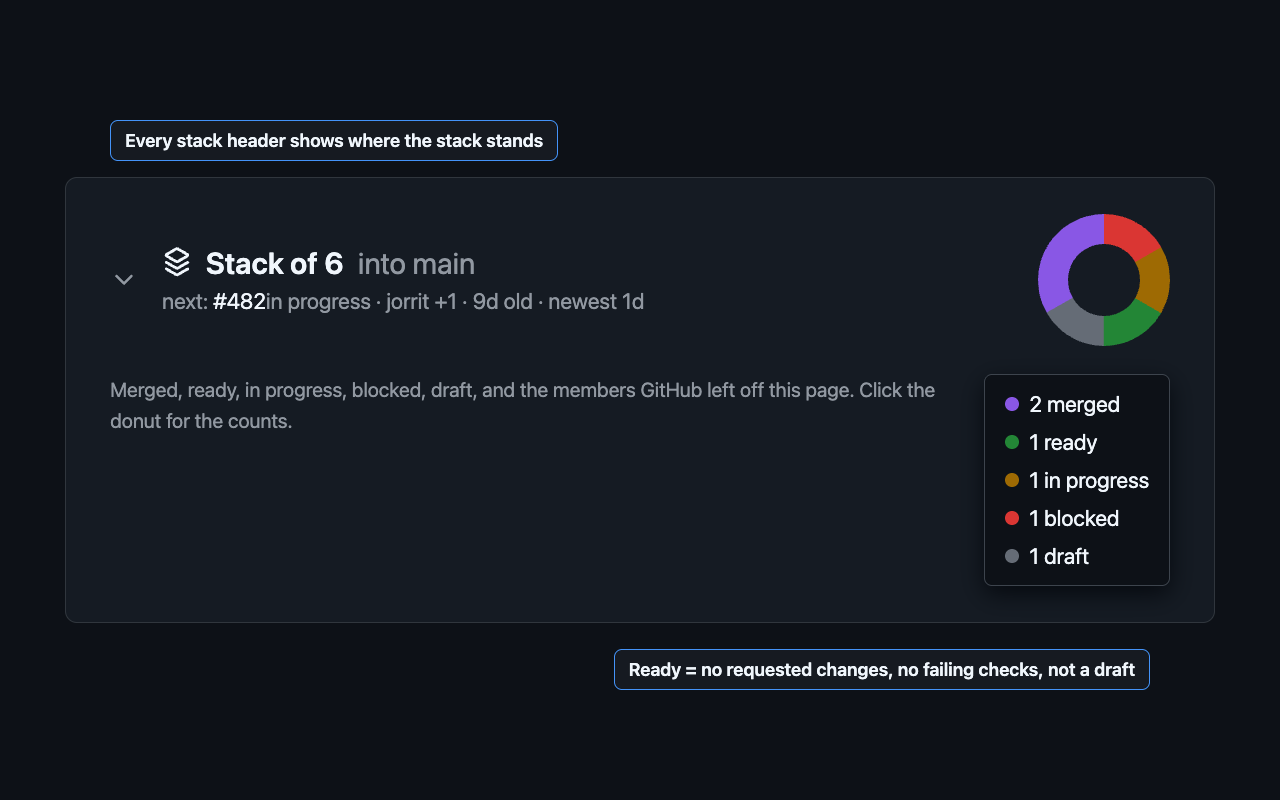
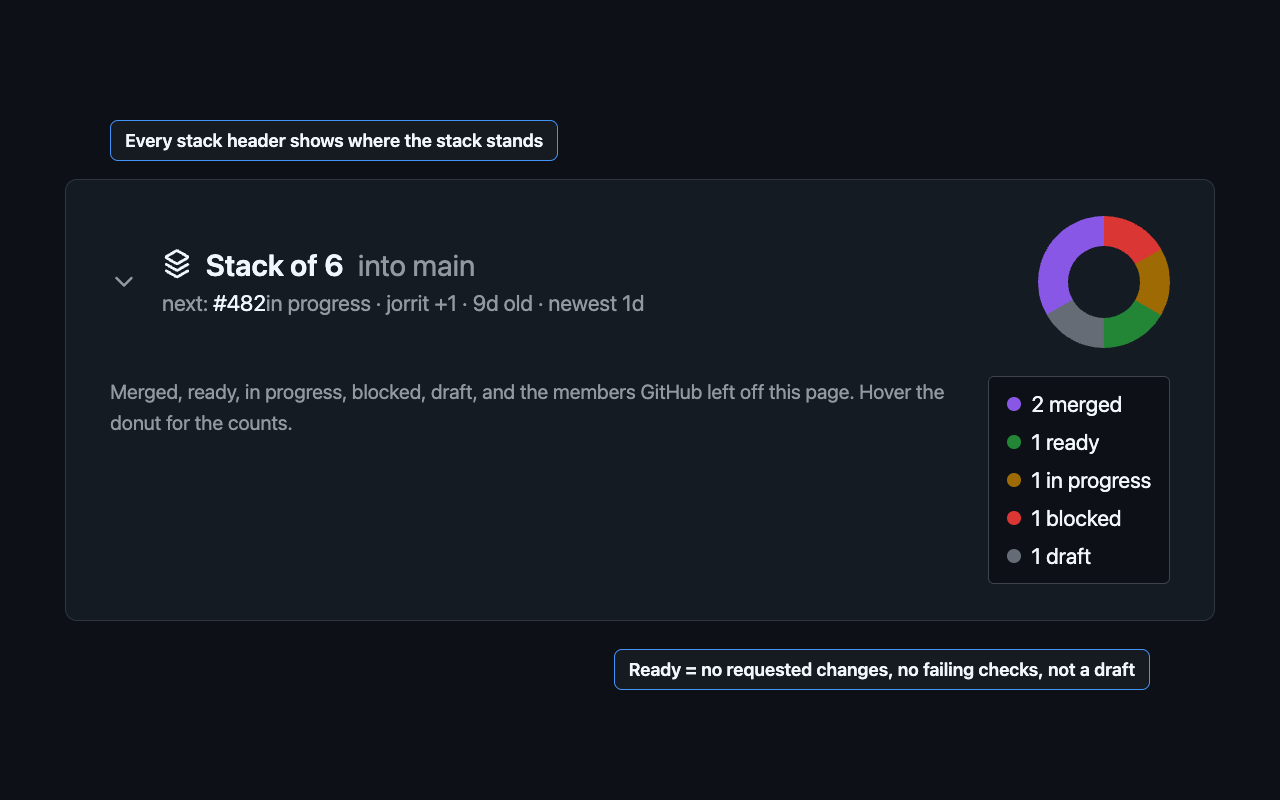
Make the donut a bare graphic with a tooltip, and let the line breathe
The donut was a button, so it wore the browser's button chrome, and its
counts lived in a popover. It is a plain span now with the counts in a native
tooltip, one per line, which also drops a tab stop, the hand-written popover
positioning, and the Firefox floor of 125 that `popover` had forced - back to
109.

The text column grows and the donut takes the rest, so it sits against the
right edge of the row; the meta items stand 20px apart; and the author is a
link to their profile, or to /apps for a bot.

diff --git a/store/assets.html b/store/assets.html
@@ -58,7 +58,7 @@ section { display: flex; flex-direction: column; gap: 56px; padding: 48px; }
 <div style="position:relative;display:flex;align-items:flex-start;gap:12px;padding:14px 16px;border-top:1px solid #21262d"><svg width="16" height="16" viewBox="0 0 16 16" style="fill:#9198a1;flex-shrink:0;margin-top:3px"><path d="M1.5 3.25a2.25 2.25 0 1 1 3 2.122v5.256a2.251 2.251 0 1 1-1.5 0V5.372A2.25 2.25 0 0 1 1.5 3.25Zm5.677-.177L9.573.677A.25.25 0 0 1 10 .854V2.5h1A2.5 2.5 0 0 1 13.5 5v5.628a2.251 2.251 0 1 1-1.5 0V5a1 1 0 0 0-1-1h-1v1.646a.25.25 0 0 1-.427.177L7.177 3.427a.25.25 0 0 1 0-.354ZM3.75 2.5a.75.75 0 1 0 0 1.5.75.75 0 0 0 0-1.5Zm0 9.5a.75.75 0 1 0 0 1.5.75.75 0 0 0 0-1.5Zm8.25.75a.75.75 0 1 0 1.5 0 .75.75 0 0 0-1.5 0Z"></path></svg><div><a href="#" style="font-size:16px;font-weight:600;color:#f0f6fc">Bump CI to Node 22</a><div style="font-size:13px;color:#9198a1;margin-top:2px">#476 opened last week by mira · Draft</div></div></div>
 </div>
 <!-- callouts -->
-<div style="position:absolute;top:24px;left:800px;background:rgba(22,27,34,0.95);border:1px solid #4493f8;border-radius:8px;padding:9px 14px;font-size:18px;font-weight:600;color:#f0f6fc">Click the donut for the counts</div>
+<div style="position:absolute;top:24px;left:800px;background:rgba(22,27,34,0.95);border:1px solid #4493f8;border-radius:8px;padding:9px 14px;font-size:18px;font-weight:600;color:#f0f6fc">Hover the donut for the counts</div>
 <div style="position:absolute;top:66px;left:1100px;width:2px;height:162px;background:#4493f8"></div><div style="position:absolute;top:225px;left:1098px;width:6px;height:6px;border-radius:50%;background:#4493f8"></div>
 <div style="position:absolute;top:24px;left:150px;background:rgba(22,27,34,0.95);border:1px solid #4493f8;border-radius:8px;padding:9px 14px;font-size:18px;font-weight:600;color:#f0f6fc">What is next, who, how old</div>
 <div style="position:absolute;top:66px;left:300px;width:2px;height:190px;background:#4493f8"></div><div style="position:absolute;top:253px;left:298px;width:6px;height:6px;border-radius:50%;background:#4493f8"></div>
@@ -72,7 +72,7 @@ section { display: flex; flex-direction: column; gap: 56px; padding: 48px; }
 <div id="screenshot-2-progress" style="width:1280px;height:800px;flex-shrink:0;background:#0d1117;position:relative;overflow:hidden;display:flex;align-items:center;justify-content:center">
 <div style="width:1060px;background:#151b23;border:1px solid #30363d;border-radius:12px;padding:36px 44px;display:flex;flex-direction:column;gap:28px">
 <div style="display:flex;align-items:center;gap:24px"><svg width="28" height="28" viewBox="0 0 16 16" style="fill:#9198a1"><path d="M12.78 5.22a.749.749 0 0 1 0 1.06l-4.25 4.25a.749.749 0 0 1-1.06 0L3.22 6.28a.749.749 0 1 1 1.06-1.06L8 8.939l3.72-3.719a.749.749 0 0 1 1.06 0Z"></path></svg><div style="display:flex;flex-direction:column;gap:6px;flex:1;min-width:0"><span style="display:inline-flex;align-items:center;gap:14px;font-size:30px;font-weight:600;color:#f0f6fc;white-space:nowrap"><svg width="30" height="30" viewBox="0 0 16 16" style="fill:currentColor"><path d="M7.122.392a1.75 1.75 0 0 1 1.756 0l5.003 2.902c.83.481.83 1.68 0 2.162L8.878 8.358a1.75 1.75 0 0 1-1.756 0L2.119 5.456a1.251 1.251 0 0 1 0-2.162ZM8.125 1.69a.248.248 0 0 0-.25 0l-4.63 2.685 4.63 2.685a.248.248 0 0 0 .25 0l4.63-2.685ZM1.601 7.789a.75.75 0 0 1 1.025-.273l5.249 3.044a.248.248 0 0 0 .25 0l5.249-3.044a.75.75 0 0 1 .752 1.298l-5.248 3.044a1.75 1.75 0 0 1-1.756 0L1.874 8.814A.75.75 0 0 1 1.6 7.789Zm0 3.5a.75.75 0 0 1 1.025-.273l5.249 3.044a.248.248 0 0 0 .25 0l5.249-3.044a.75.75 0 0 1 .752 1.298l-5.248 3.044a1.75 1.75 0 0 1-1.756 0l-5.248-3.044a.75.75 0 0 1-.273-1.025Z"></path></svg>Stack of 6<span style="font-weight:400;color:#9198a1"> into main</span></span><div style="display:flex;height:30px;overflow:hidden;font-size:22px;line-height:30px;color:#9198a1"><span>next: <span style="color:#f0f6fc">#482</span>in progress &middot; jorrit +1 &middot; 9d old &middot; newest 1d</span></div></div><div style="flex-shrink:0"><svg width="132" height="132" viewBox="0 0 132 132" style="display:block"><circle cx="66" cy="66" r="51" fill="none" stroke="#da3633" stroke-width="30" stroke-dasharray="53.41 267.04" stroke-dashoffset="0.00" transform="rotate(-90 66 66)"></circle><circle cx="66" cy="66" r="51" fill="none" stroke="#9e6a03" stroke-width="30" stroke-dasharray="53.41 267.04" stroke-dashoffset="-53.41" transform="rotate(-90 66 66)"></circle><circle cx="66" cy="66" r="51" fill="none" stroke="#238636" stroke-width="30" stroke-dasharray="53.41 267.04" stroke-dashoffset="-106.81" transform="rotate(-90 66 66)"></circle><circle cx="66" cy="66" r="51" fill="none" stroke="#656c76" stroke-width="30" stroke-dasharray="53.41 267.04" stroke-dashoffset="-160.22" transform="rotate(-90 66 66)"></circle><circle cx="66" cy="66" r="51" fill="none" stroke="#8957e5" stroke-width="30" stroke-dasharray="106.81 213.63" stroke-dashoffset="-213.63" transform="rotate(-90 66 66)"></circle></svg></div></div>
-<div style="display:flex;align-items:flex-start;gap:32px"><div style="flex:1;font-size:20px;line-height:1.55;color:#9198a1">Merged, ready, in progress, blocked, draft, and the members GitHub left off this page. Click the donut for the counts.</div><div style="display:flex;flex-direction:column;gap:12px;font-size:22px;color:#f0f6fc;background:#0d1117;border:1px solid #3d444d;border-radius:8px;padding:16px 20px;box-shadow:0 8px 24px rgba(1,4,9,0.8)"><span style="display:inline-flex;align-items:center;gap:10px"><span style="width:14px;height:14px;border-radius:50%;background:#8957e5"></span>2 merged</span><span style="display:inline-flex;align-items:center;gap:10px"><span style="width:14px;height:14px;border-radius:50%;background:#238636"></span>1 ready</span><span style="display:inline-flex;align-items:center;gap:10px"><span style="width:14px;height:14px;border-radius:50%;background:#9e6a03"></span>1 in progress</span><span style="display:inline-flex;align-items:center;gap:10px"><span style="width:14px;height:14px;border-radius:50%;background:#da3633"></span>1 blocked</span><span style="display:inline-flex;align-items:center;gap:10px"><span style="width:14px;height:14px;border-radius:50%;background:#656c76"></span>1 draft</span></div></div>
+<div style="display:flex;align-items:flex-start;gap:32px"><div style="flex:1;font-size:20px;line-height:1.55;color:#9198a1">Merged, ready, in progress, blocked, draft, and the members GitHub left off this page. Hover the donut for the counts.</div><div style="display:flex;flex-direction:column;gap:12px;font-size:22px;color:#f0f6fc;background:#0d1117;border:1px solid #3d444d;border-radius:6px;padding:14px 18px"><span style="display:inline-flex;align-items:center;gap:10px"><span style="width:14px;height:14px;border-radius:50%;background:#8957e5"></span>2 merged</span><span style="display:inline-flex;align-items:center;gap:10px"><span style="width:14px;height:14px;border-radius:50%;background:#238636"></span>1 ready</span><span style="display:inline-flex;align-items:center;gap:10px"><span style="width:14px;height:14px;border-radius:50%;background:#9e6a03"></span>1 in progress</span><span style="display:inline-flex;align-items:center;gap:10px"><span style="width:14px;height:14px;border-radius:50%;background:#da3633"></span>1 blocked</span><span style="display:inline-flex;align-items:center;gap:10px"><span style="width:14px;height:14px;border-radius:50%;background:#656c76"></span>1 draft</span></div></div>
 </div>
 <div style="position:absolute;top:120px;left:110px;background:rgba(22,27,34,0.95);border:1px solid #4493f8;border-radius:8px;padding:9px 14px;font-size:18px;font-weight:600;color:#f0f6fc">Every stack header shows where the stack stands</div>
 <div style="position:absolute;bottom:110px;right:130px;background:rgba(22,27,34,0.95);border:1px solid #4493f8;border-radius:8px;padding:9px 14px;font-size:18px;font-weight:600;color:#f0f6fc">Ready = no requested changes, no failing checks, not a draft</div>

diff --git a/src/content.js b/src/content.js
@@ -15,7 +15,6 @@
   const DONUT_SIZE = 22;
   const DONUT_RADIUS = 8.5;
   const DONUT_STROKE = 5;
-  const HAS_POPOVER = typeof HTMLElement !== "undefined" && "popover" in HTMLElement.prototype;
   // Drawn as presentation attributes so the ring survives even if the stylesheet does not load;
   // content.css overrides the stroke with GitHub's own theme variable when it does.
   const STATUS_COLORS = {
@@ -305,22 +304,6 @@
     return svg;
   }
 
-  // A popover with no positioning lands in the middle of the viewport, and CSS anchor positioning
-  // is Chrome-only for now, so place it under the donut by hand.
-  function positionLegend(legend, anchor) {
-    const rect = anchor.getBoundingClientRect();
-    // Inline, because the UA sheet centres a popover with `inset: 0; margin: auto`.
-    legend.style.position = "fixed";
-    legend.style.inset = "auto";
-    legend.style.margin = "0";
-    const width = legend.offsetWidth || 180;
-    const height = legend.offsetHeight;
-    let top = rect.bottom + 6;
-    if (height && top + height > window.innerHeight - 8) top = Math.max(8, rect.top - height - 6);
-    legend.style.left = `${Math.max(8, Math.min(rect.right - width, window.innerWidth - width - 8))}px`;
-    legend.style.top = `${top}px`;
-  }
-
   function metaItem(text, title) {
     const item = el("span", "ges-meta-item", text);
     if (title) item.title = title;
@@ -341,7 +324,12 @@
       line.appendChild(metaItem("all merged"));
     }
     if (meta.author) {
-      line.appendChild(metaItem(meta.author.others ? `${meta.author.login} +${meta.author.others}` : meta.author.login));
+      const item = el("span", "ges-meta-item");
+      const link = el("a", "ges-link", meta.author.login);
+      link.href = core.authorHref(meta.author.login);
+      item.append(link);
+      if (meta.author.others) item.append(` +${meta.author.others}`);
+      line.appendChild(item);
     }
     if (meta.age) {
       line.appendChild(metaItem(`${meta.age.oldest} old`, meta.age.oldestTitle));
@@ -367,28 +355,16 @@
       main.append(title, metaLine(meta));
 
       const described = core.STATUSES.filter((s) => summary.counts[s] > 0);
-      const legendText = described.map((s) => `${summary.counts[s]} ${STATUS_LABELS[s]}`).join(", ");
-      const donut = el("button", "ges-donut");
-      donut.type = "button";
-      // The counts used to be spelled out in the header; keep them in the accessibility tree.
-      donut.setAttribute("aria-label", `Stack progress: ${legendText}`);
+      const counts = described.map((s) => `${summary.counts[s]} ${STATUS_LABELS[s]}`);
+      const donut = el("span", "ges-donut");
+      // The counts used to be spelled out in the header; the tooltip is where they live now,
+      // one per line, and the label keeps them in the accessibility tree.
+      donut.setAttribute("role", "img");
+      donut.setAttribute("aria-label", `Stack progress: ${counts.join(", ")}`);
+      donut.title = counts.join("\n");
       donut.appendChild(renderDonut(summary.counts));
 
-      const legend = el("div", "ges-legend");
-      legend.id = `ges-legend-${stack.id}`;
-      for (const status of described) {
-        const count = el("span", "ges-count");
-        count.append(el("span", `ges-count-dot ges-s-${status}`), `${summary.counts[status]} ${STATUS_LABELS[status]}`);
-        legend.appendChild(count);
-      }
-      if (!HAS_POPOVER) return [fold, main, donut];
-      legend.setAttribute("popover", "");
-      donut.setAttribute("popovertarget", legend.id);
-      // beforetoggle places it before the first paint; toggle corrects it once it has a size.
-      const place = (event) => event.newState === "open" && positionLegend(legend, donut);
-      legend.addEventListener("beforetoggle", place);
-      legend.addEventListener("toggle", place);
-      return [fold, main, donut, legend];
+      return [fold, main, donut];
     });
   }
 
@@ -547,7 +523,7 @@
 
   function onClick(event) {
     const header = event.target.closest?.(".ges-header");
-    if (!header || event.target.closest("a, .ges-donut, .ges-legend")) return;
+    if (!header || event.target.closest("a")) return;
     event.preventDefault();
     const stackId = Number(header.getAttribute("data-ges-stack"));
     if (Number.isFinite(stackId)) toggleFold(stackId);

diff --git a/src/content.css b/src/content.css
@@ -110,7 +110,7 @@ ul[data-ges-active] > li.ges-header {
 }
 
 .ges-header .ges-body {
-  gap: 12px;
+  gap: 16px;
 }
 
 /* GitHub's list item is a block today, but claim the full row either way. */
@@ -121,7 +121,7 @@ ul[data-ges-active] > li.ges-synthetic > .ges-body {
 .ges-header-main {
   display: flex;
   flex-direction: column;
-  gap: 2px;
+  gap: 3px;
   flex: 1;
   min-width: 0;
 }
@@ -144,7 +144,7 @@ ul[data-ges-active] > li.ges-synthetic > .ges-body {
 
 .ges-meta-item + .ges-meta-item::before {
   content: "\00b7";
-  margin: 0 8px;
+  margin: 0 10px;
 }
 
 .ges-header {
@@ -204,58 +204,15 @@ ul[data-ges-active] > li.ges-synthetic > .ges-body {
 
 .ges-donut {
   display: inline-flex;
-  margin-left: auto;
-  padding: 2px;
-  border: 0;
-  border-radius: 50%;
-  background: none;
-  color: inherit;
-  cursor: pointer;
   align-self: center;
-}
-
-.ges-donut:focus-visible {
-  outline: 2px solid var(--focus-outlineColor, #1f6feb);
+  /* Claims whatever is left of the row, so it sits against the right edge. */
+  margin-left: auto;
+  padding-left: 8px;
 }
 
 .ges-arc {
   fill: none;
   stroke: var(--ges-status);
-}
-
-/* Closed popovers are display:none by UA rule, which an author `display` would override. */
-.ges-legend {
-  display: none;
-  position: fixed;
-  inset: auto;
-  margin: 0;
-  padding: 10px 12px;
-  border: 1px solid var(--borderColor-default, #3d444d);
-  border-radius: 6px;
-  background-color: var(--overlay-bgColor, var(--bgColor-default, #0d1117));
-  color: var(--fgColor-default, #f0f6fc);
-  box-shadow: var(--shadow-floating-small, 0 8px 24px rgba(1, 4, 9, 0.8));
-  font-size: 12px;
-  line-height: 18px;
-}
-
-.ges-legend:popover-open {
-  display: flex;
-  flex-direction: column;
-  gap: 6px;
-}
-
-.ges-count {
-  display: inline-flex;
-  align-items: center;
-  gap: 4px;
-}
-
-.ges-count-dot {
-  width: 8px;
-  height: 8px;
-  border-radius: 50%;
-  background-color: var(--ges-status);
 }
 
 .ges-s-merged { --ges-status: var(--bgColor-done-emphasis, #8957e5); }

diff --git a/src/core.js b/src/core.js
@@ -176,6 +176,12 @@
     return after ? after[1] : null;
   }
 
+  // GitHub keeps app accounts under /apps, and the row spells them "renovate[bot]".
+  function authorHref(login) {
+    if (!login) return null;
+    return login.endsWith("[bot]") ? `/apps/${login.slice(0, -"[bot]".length)}` : `/${login}`;
+  }
+
   // logins of the members on the page, top of the stack first.
   function authorSummary(logins) {
     const present = (logins || []).filter(Boolean);
@@ -262,6 +268,7 @@
     summarizeStack,
     buildDisplay,
     parseRowAuthor,
+    authorHref,
     authorSummary,
     ageSpan,
     formatDuration,

diff --git a/test/core.test.js b/test/core.test.js
@@ -170,3 +170,9 @@ test("donutSegments keeps a thin slice visible without leaving a gap in the ring
   assert.ok(many.every((s) => s.angle >= core.MIN_SLICE_DEGREES - 1e-9));
   assert.deepEqual(many.map((s) => s.status), core.RING_ORDER);
 });
+
+test("authorHref points at a profile, or at /apps for a bot", () => {
+  assert.equal(core.authorHref("xiduzo"), "/xiduzo");
+  assert.equal(core.authorHref("renovate[bot]"), "/apps/renovate");
+  assert.equal(core.authorHref(null), null);
+});

diff --git a/README.md b/README.md
@@ -3,7 +3,7 @@
 Browser extension for Chrome and Firefox that groups [stacked pull requests](https://docs.github.com/en/pull-requests/how-tos/stacked-pull-requests) in GitHub's pull request lists.
 
 - **Always grouped**: stack members are shown together under a stack header, even if other PRs sat between them. Open members that aren't on the current page (pagination, filters) show up as compact placeholder rows.
-- **Progress**: a donut on the right of the header splits the stack into merged, ready, in progress, blocked, draft, closed and not on this page. Click it for the legend with the counts. Slices thinner than 12 degrees are drawn at 12, so one blocked PR in a stack of twenty stays visible.
+- **Progress**: a donut on the right of the header splits the stack into merged, ready, in progress, blocked, draft, closed and not on this page. Hover it for the counts, one per line. Slices thinner than 12 degrees are drawn at 12, so one blocked PR in a stack of twenty stays visible.
 - **At a glance**: under *Stack of X into Y* the header shows what to do next (the lowest member that has not merged), who the stack belongs to, and how old it is - oldest and newest member. The line is one row tall, so on a narrow window it drops items from the right, keeping the next action.
 - **Fold**: click a stack header to fold or unfold it. The toolbar popup has a *Fold stacks by default* setting.
 - **Rail**: a colored line connects the members; hover a row to highlight its whole stack.
@@ -18,7 +18,7 @@ A PR counts as *ready* when it has no requested changes, no failing checks and i
 2. Click **Load unpacked** and select this folder.
 3. Reload a GitHub pull request list.
 
-**Firefox** (125 or later, for `popover`)
+**Firefox** (109 or later)
 
 1. Open `about:debugging#/runtime/this-firefox`.
 2. Click **Load Temporary Add-on** and select this folder's `manifest.json`.

diff --git a/store/listing.md b/store/listing.md
@@ -11,7 +11,7 @@ Groups stacked pull requests in GitHub's PR lists — with progress, colored rai
 GitHub Easy Stack groups stacked pull requests in GitHub's pull request lists.
 
 — Always grouped: stack members are shown together under a stack header, even when other PRs sit between them. Open members that aren't on the current page appear as compact placeholder rows.
-— Progress at a glance: a donut on each header splits the stack into merged, ready, in progress, blocked, draft and not on this page. Click it for the counts.
+— Progress at a glance: a donut on each header splits the stack into merged, ready, in progress, blocked, draft and not on this page. Hover it for the counts.
 — What to do next: the header also shows the lowest member that hasn't merged, who the stack belongs to, and how old it is.
 — Fold: click a stack header to fold or unfold it, or fold all stacks by default from the toolbar popup.
 — Rail: a colored line connects the members of a stack; hover any row to highlight its whole stack.
